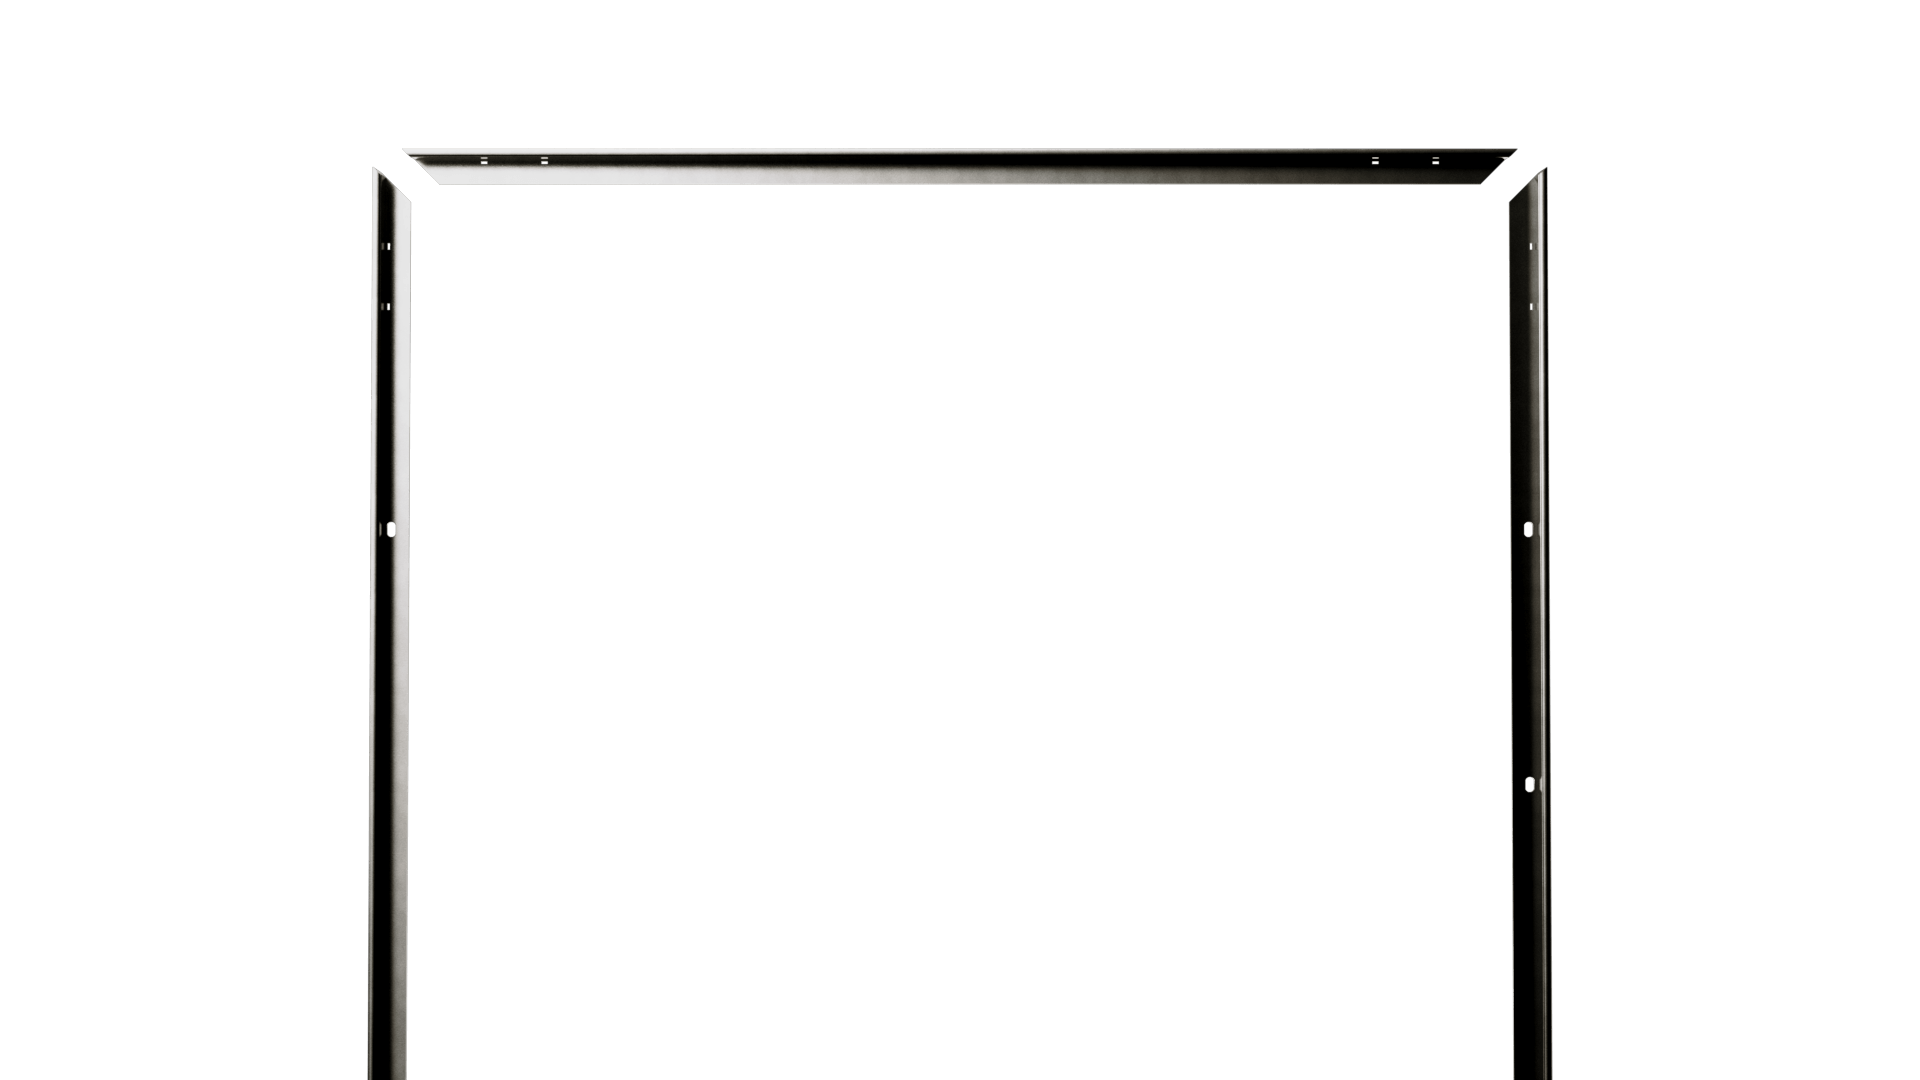
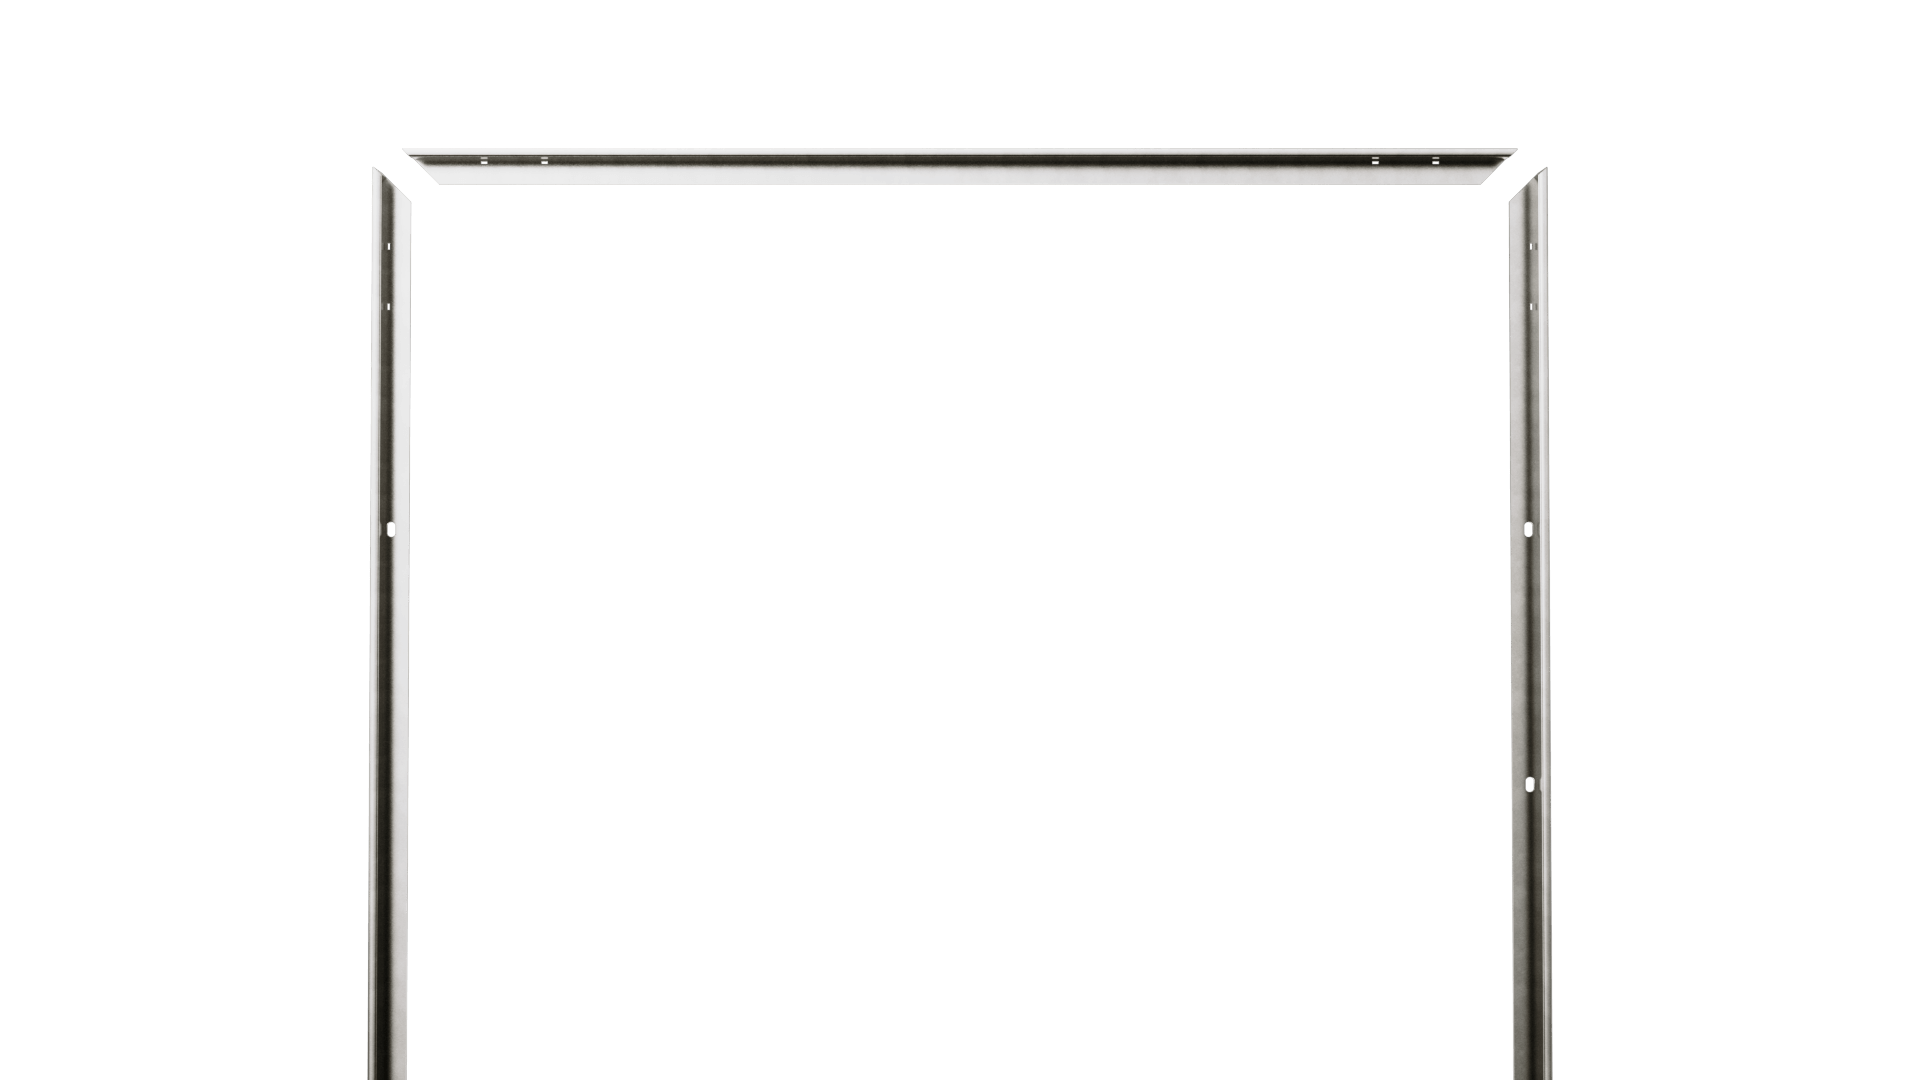
updated constructor frames

Changed region(s): [[0.2188, 0.1222, 0.8125, 1.0], [0.1875, 0.1528, 0.2188, 1.0]]

diff --git a/src/app/[locale]/calculate/components/Options/index.tsx b/src/app/[locale]/calculate/components/Options/index.tsx
@@ -2,6 +2,7 @@
 
 import ChooseModel from "@/app/[locale]/calculate/components/ChooseModel";
 import BasicWidthContainer from "@/app/[locale]/components/common/BasicWidthContainer";
+import Loader from "@/app/[locale]/components/common/Loader";
 import { ConstructorContext } from "@/app/[locale]/context/constructorContext";
 import { CONSTRUCTOR_OPTION_LINES } from "@/app/[locale]/utils/constants";
 import Image from "next/image";
@@ -17,7 +18,10 @@ const ImagesWithAnimation = ({ image }: { image: string }) => {
       width={1920}
       height={1080}
       quality={100}
-      onLoadingComplete={() => setIsLoaded(true)}
+      onLoad={() => setIsLoaded(true)}
+      onError={(event) =>
+        ((event.target as HTMLImageElement).style.display = "none")
+      }
       className={`
         md:max-w-full
         min-[500px]:max-w-[400px]
@@ -40,11 +44,13 @@ export default function Options() {
     constructorModel: { model, moduleColor, frameColor },
   } = useContext(ConstructorContext);
 
+  const [isGeneralImageLoading, setIsGeneralImageLoading] = useState(true);
+
   const moduleImages = [
     `${model}Frame${frameColor}`,
-    `${model}Backplate${moduleColor}`,
+    `${model}Backsheet${moduleColor}`,
     `${model}Front`,
-  ].filter((image) => !image.toLowerCase().includes("transparent"));
+  ].filter((image) => !image.toLowerCase().includes("without"));
 
   return (
     <BasicWidthContainer>
@@ -92,8 +98,18 @@ export default function Options() {
                 w-auto h-auto
               `}
             >
-              {/* {!constructorModel.model && ( */}
               <>
+                {isGeneralImageLoading && (
+                  <div
+                    className=" 
+                      absolute
+                      left-1/2
+                      -translate-x-1/2
+                    "
+                  >
+                    <Loader />
+                  </div>
+                )}
                 <Image
                   src={`/images/featuredProductsConstructor.svg`}
                   alt={"featuredProducts"}
@@ -101,6 +117,7 @@ export default function Options() {
                   width={1920}
                   height={1080}
                   quality={100}
+                  onLoad={() => setIsGeneralImageLoading(false)}
                   className={`
                     md:max-w-full
                     min-[500px]:max-w-[400px]
@@ -110,12 +127,20 @@ export default function Options() {
                     min-[500px]:h-[27vh]
                     transition-all
                     duration-500
-                    ${!model ? "opacity-100" : "opacity-0"}
+                    ${
+                      !model && !isGeneralImageLoading
+                        ? "opacity-100"
+                        : "opacity-0"
+                    }
                   `}
                 />
                 <div
                   className={`absolute w-full top-0  transition-all
-                  duration-500 ${!model ? "opacity-100" : "opacity-0"}`}
+                  duration-500 ${
+                    !model && !isGeneralImageLoading
+                      ? "opacity-100"
+                      : "opacity-0"
+                  }`}
                 >
                   {CONSTRUCTOR_OPTION_LINES.map(({ panelName, position }) => (
                     <div

diff --git a/src/app/[locale]/products/[id]/components/ProductsPanel/index.tsx b/src/app/[locale]/products/[id]/components/ProductsPanel/index.tsx
@@ -127,20 +127,6 @@ export default function ProductsPanel({ id }: ProductsPanelProps) {
           ${!startTextTransition ? "opacity-0 md:!bottom-[0%]" : "opacity-100"}
         `}
       >
-        <Image
-          src="/images/awards/dividerSmall.svg"
-          alt="dividerSmall"
-          width={30}
-          height={30}
-          className="absolute top-0 left-0 lg:block hidden"
-        />
-        <Image
-          src="/images/awards/dividerSmall.svg"
-          alt="dividerSmall"
-          width={30}
-          height={30}
-          className="absolute bottom-0 right-0 rotate-180 lg:block hidden"
-        />
         <div className="flex flex-col items-center md:gap-3 gap-1 md:w-min w-full">
           <Image
             src={`/images/models/${id}.svg`}

diff --git a/src/app/[locale]/context/constructorContext.tsx b/src/app/[locale]/context/constructorContext.tsx
@@ -96,7 +96,9 @@ export default function ConstructorProvider({
 
   useEffect(() => {
     const selectedModelParams =
-      CONSTRUCTOR_MODELS_SPEC[constructorModel.model]?.params || "";
+      CONSTRUCTOR_MODELS_SPEC[constructorModel?.model]?.params;
+    console.log("constructorModel.model", constructorModel.model);
+
     if (!selectedModelParams) return;
     setConstructorModel({
       model: constructorModel.model,
